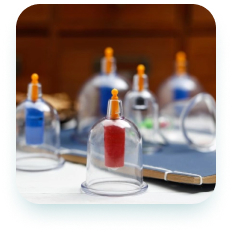
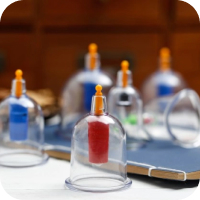
AnsorMed is ready

diff --git a/index.html b/index.html
@@ -78,7 +78,13 @@
         <h1 class="xizmat">Xizmatlar</h1>
 
         <div class="bg-hijoma">
-            <img src="images/image 1.jpg" alt="" width="200" height="200">
+            <img 
+                src="images/image 1.jpg" 
+                alt="Hijoma" 
+                width="200" 
+                height="200"
+                srcset="images/image 1.jpg , images/image 1@2x.jpg">
+
                 <div class="bg-option">
                     <h3  class="bg-hijoma__info">Hijoma</h3>
 
@@ -88,7 +94,13 @@
         </div>
 
         <div class="bg-terapiya">
-            <img src="images/image 2.jpg" alt="" width="200" height="200">
+            <img 
+                src="images/image 2.jpg" 
+                alt="Manual terapiya" 
+                width="200" 
+                height="200"
+                srcset="images/image 2.jpg , images/image 2@2x.jpg">
+
                 <div class="bg-option">
                     <h3 class="bg-terapiya__info">Manual terapiya</h3>
 
@@ -99,7 +111,12 @@
 
 
         <div class="bg-zuluk">
-            <img src="images/image 3.jpg" alt="" width="200" height="200">
+            <img 
+                src="images/image 3.jpg" 
+                alt="" 
+                width="200" 
+                height="200"
+                srcset="images/image 3.jpg , images/image 3@2x.jpg">
                 <div class="bg-option">
                     <h3 class="bg-zuluk__info">Zuluk bilan ishlash</h3>
 
@@ -109,7 +126,12 @@
         </div>
 
         <div class="bg-tabiy">
-            <img src="images/image 3 (1).jpg" alt="" width="200" height="200">
+            <img 
+                src="./image 3.jpg" 
+                alt="Tabiiy dori vositalari" 
+                width="200" 
+                height="200"
+                srcset="image 3.jpg , image 3@2x.jpg">
                 <div class="bg-option">
                     <h3 class="bg-tabiy__info">Tabiiy dori vositalari</h3>
 

diff --git a/css/style.css b/css/style.css
@@ -71,6 +71,8 @@ body{
     display: flex;
     align-items: center;
     list-style: none;
+    padding: 0;
+    margin: 0;
 }
 
 .sitenav-item:not(:last-child){
@@ -190,9 +192,63 @@ body{
     height: 1486px;
 }
 
-.bg-hijoma, .bg-terapiya, .bg-zuluk, .bg-tabiy{
-    margin-left: 288px;
+.bg-hijoma {
+    display: flex;
+    width: 864px;
+    height: 200px;
+    margin-left: auto;
+    margin-right: auto;
     margin-bottom: 80px;
+} 
+
+.bg-hijoma img{
+    border-radius: 24px;
+}
+
+.bg-terapiya{
+    display: flex;
+    width: 864px;
+    height: 200px;
+    margin-left: auto;
+    margin-right: auto;
+    margin-bottom: 80px;
+} 
+
+.bg-terapiya img{
+    border-radius: 24px;
+}
+
+.bg-zuluk{
+    display: flex;
+    width: 864px;
+    height: 200px;
+    margin-left: auto;
+    margin-right: auto;
+    margin-bottom: 80px;
+} 
+
+.bg-zuluk img{
+    border-radius: 24px;
+}
+
+.bg-tabiy{
+    display: flex;
+    width: 864px;
+    height: 200px;
+    margin-left: auto;
+    margin-right: auto;
+}
+
+.bg-tabiy img{
+    border-radius: 24px;
+}
+
+.bg-option{
+    margin-left: 64px;
+}
+
+.bg-option p{
+    font-family: 'Open Sans ' , sans-serif;
 }
 
 .bg-hijoma__info{
@@ -268,15 +324,6 @@ body{
    color: #fff;
    background: #DE2E54;
    opacity: 0.6;
-}
-
-.bg-option{
-    float: right;
-    margin-right: 250px;
-}
-
-.bg-option p{
-    font-family: 'Open Sans', sans-serif;   
 }
 
 .footer-before{
